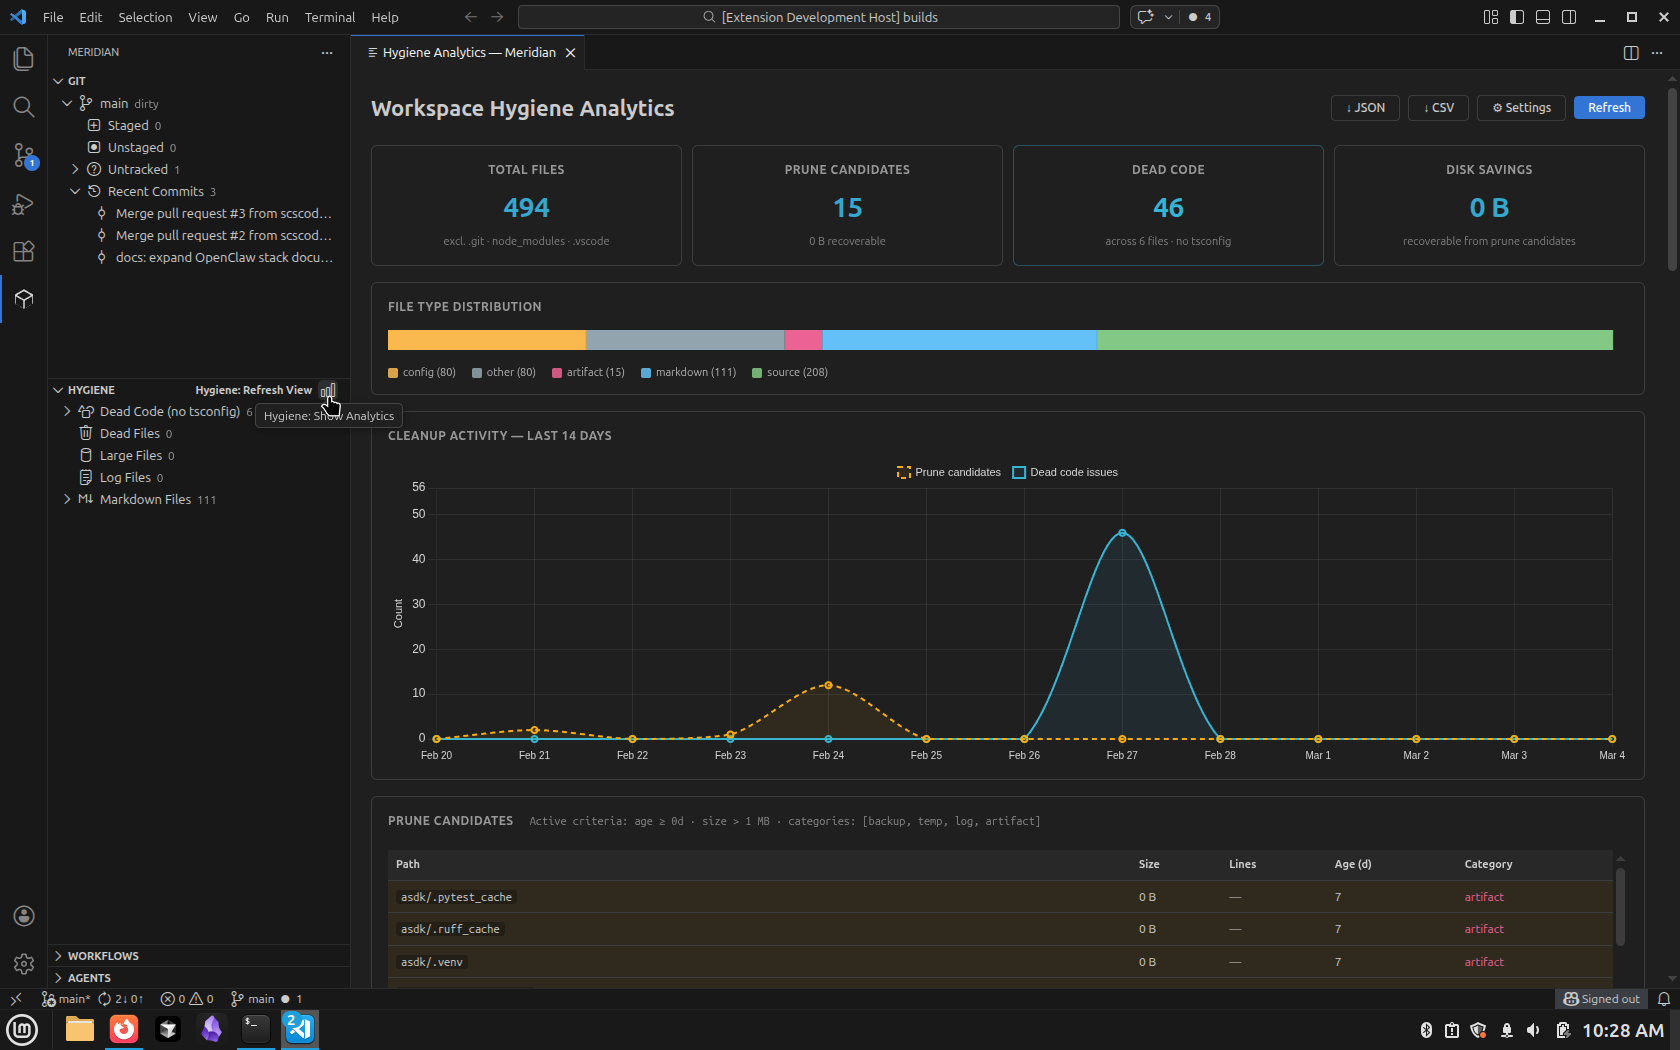
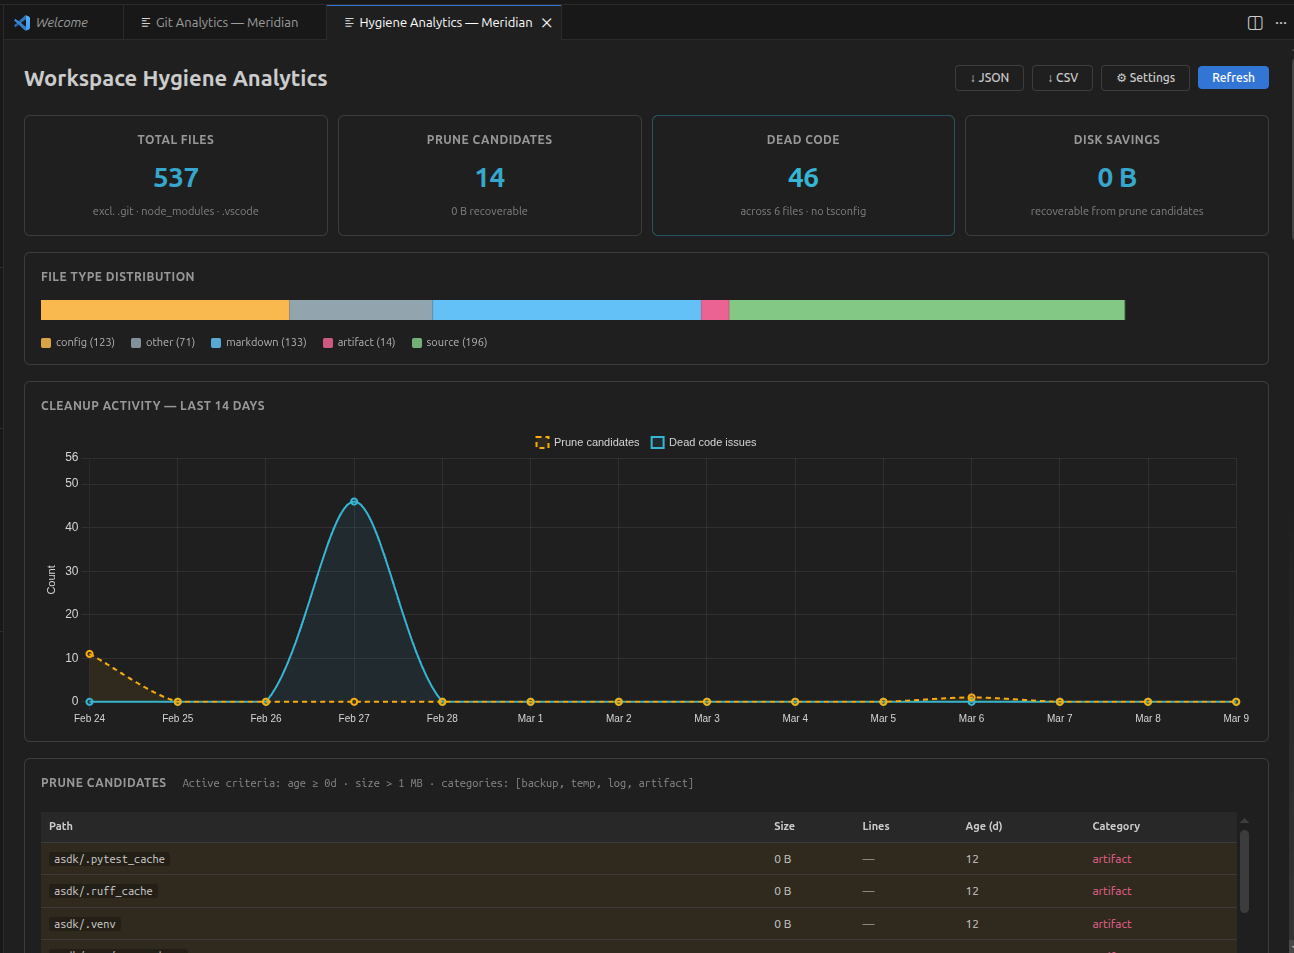
docs: add markdown AI review feature + screenshot, bump to 0.0.2
- Add Markdown AI Review bullet to Code Hygiene feature highlights
- Add hygiene_md_ai_review.png screenshot to README
- Update git_analytics.png and hygiene_analytics.png (refreshed shots)
- Bump version 0.0.1 → 0.0.2

diff --git a/README.md b/README.md
@@ -19,6 +19,7 @@ Meridian brings smart commit grouping, PR generation and review, workspace hygie
 
 - **Automated Scanning** -- detect dead files, unused exports, oversized logs, and stale documentation across your workspace. Respects `.gitignore` and `.meridianignore`.
 - **Impact Analysis** -- trace the blast radius of a file or function change using the TypeScript Compiler API. See importers, call sites, test coverage, and an LLM-generated prose summary.
+- **Markdown AI Review** -- right-click any `.md` file in the Hygiene view or Explorer to send it to an LLM for structural and content improvement suggestions, returned inline in the chat panel.
 - **Cleanup & Analytics** -- batch-delete candidates with dry-run support, and view hygiene trends over time in a dedicated analytics dashboard.
 
 ### Workflows & Agents
@@ -43,6 +44,10 @@ Meridian brings smart commit grouping, PR generation and review, workspace hygie
 ### Hygiene Analytics Dashboard
 
 ![Hygiene Analytics](media/hygiene_analytics.png)
+
+### Markdown AI Review
+
+![Hygiene Markdown AI Review](media/hygiene_md_ai_review.png)
 
 ---
 
